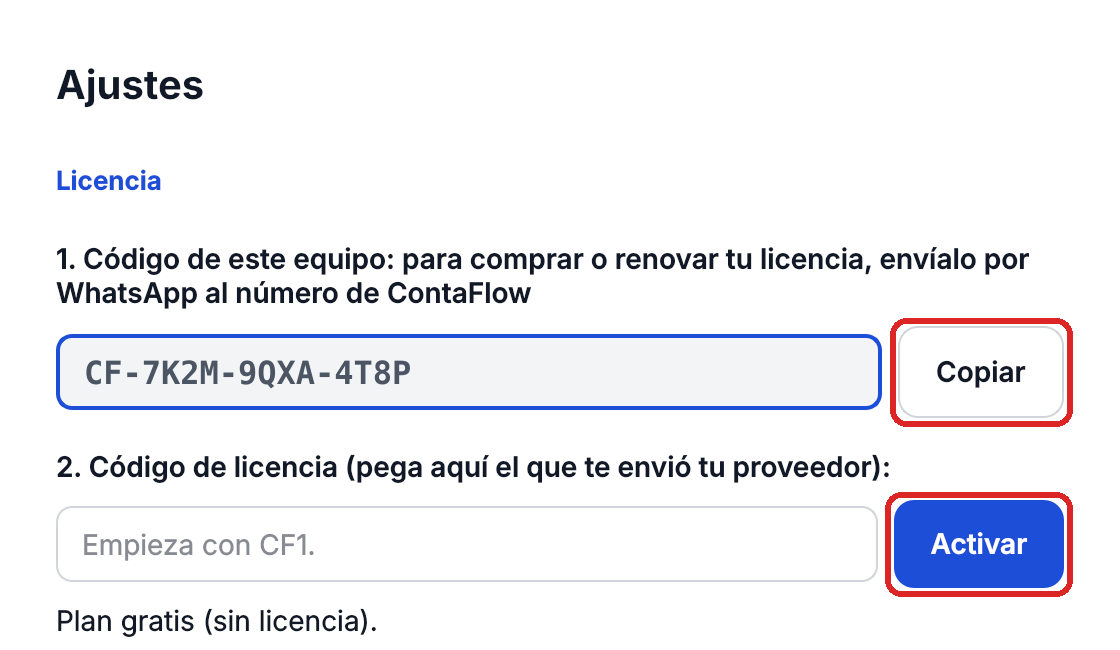
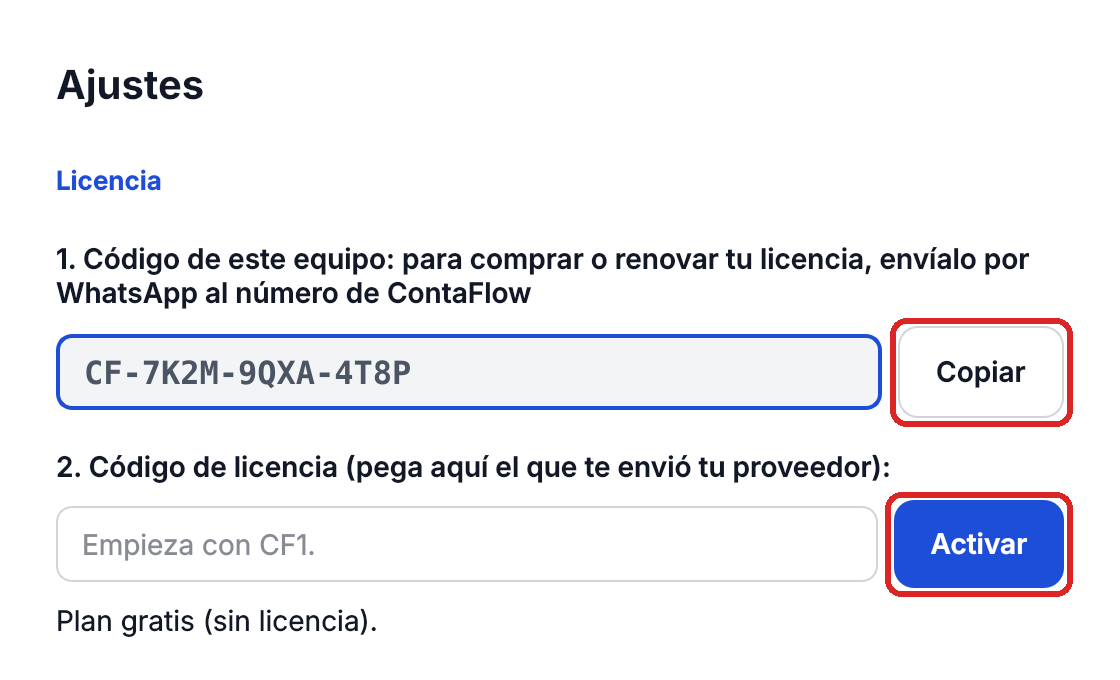
Manuales: más margen bajo Plan gratis en la captura de Ajustes
Claude-Session: https://claude.ai/code/session_01Awd6gsqghu2xVXqrxzXHjo

diff --git a/manual-chrome.html b/manual-chrome.html
@@ -83,7 +83,7 @@ ol.pasos{list-style:none;counter-reset:paso;margin:40px 0 0} /* Lista numerada d
     <div class="captura"><img src="manual/instalacion/inicio.png" alt="ContaFlow recién instalado, sin empresas, con el botón Nueva empresa y Ajustes marcados" width="1298" height="800" loading="lazy"></div></li><!-- Captura real de la app. -->
   <li class="paso"><h2>¿Tienes una licencia? Actívala en Ajustes</h2><!-- Activar licencia. -->
     <p>Pulsa <b>Ajustes</b> (abajo a la izquierda). En <b>Licencia</b>, pulsa <b>Copiar</b> y envía tu <b>código de este equipo</b> por <a href="https://wa.link/b9o2a2" target="_blank" rel="noopener">WhatsApp</a>. Cuando recibas tu código de licencia, pégalo en el paso 2 y pulsa <b>Activar</b>. Cada licencia funciona en una sola PC.</p><!-- Qué hacer. -->
-    <div class="captura angosta" style="max-width:560px"><img src="manual/instalacion/licencia.png" alt="Ventana Ajustes de ContaFlow: código de este equipo con el botón Copiar y campo de código de licencia con el botón Activar" width="560" height="325" loading="lazy"></div></li><!-- Captura real de la app. -->
+    <div class="captura angosta" style="max-width:560px"><img src="manual/instalacion/licencia.png" alt="Ventana Ajustes de ContaFlow: código de este equipo con el botón Copiar y campo de código de licencia con el botón Activar" width="560" height="340" loading="lazy"></div></li><!-- Captura real de la app. -->
 </ol>
 <div class="final"><!-- Cierre. -->
   <p>¿Te quedaste en algún paso? Escríbeme y te ayudo.</p><!-- Invitación a escribir. -->

diff --git a/manual-descarga.html b/manual-descarga.html
@@ -92,7 +92,7 @@ ol.pasos{list-style:none;counter-reset:paso;margin:40px 0 0} /* Lista numerada d
     <div class="captura"><img src="manual/instalacion/inicio.png" alt="ContaFlow recién instalado, sin empresas, con el botón Nueva empresa y Ajustes marcados" width="1298" height="800" loading="lazy"></div></li><!-- Captura real de la app. -->
   <li class="paso"><h2>¿Tienes una licencia? Actívala en Ajustes</h2><!-- Activar licencia. -->
     <p>Pulsa <b>Ajustes</b> (abajo a la izquierda). En <b>Licencia</b>, pulsa <b>Copiar</b> y envía tu <b>código de este equipo</b> por <a href="https://wa.link/b9o2a2" target="_blank" rel="noopener">WhatsApp</a>. Cuando recibas tu código de licencia, pégalo en el paso 2 y pulsa <b>Activar</b>. Cada licencia funciona en una sola PC.</p><!-- Qué hacer. -->
-    <div class="captura angosta" style="max-width:560px"><img src="manual/instalacion/licencia.png" alt="Ventana Ajustes de ContaFlow: código de este equipo con el botón Copiar y campo de código de licencia con el botón Activar" width="560" height="325" loading="lazy"></div></li><!-- Captura real de la app. -->
+    <div class="captura angosta" style="max-width:560px"><img src="manual/instalacion/licencia.png" alt="Ventana Ajustes de ContaFlow: código de este equipo con el botón Copiar y campo de código de licencia con el botón Activar" width="560" height="340" loading="lazy"></div></li><!-- Captura real de la app. -->
 </ol>
 <div class="final"><!-- Cierre. -->
   <p>¿Te quedaste en algún paso? Escríbeme y te ayudo.</p><!-- Invitación a escribir. -->
